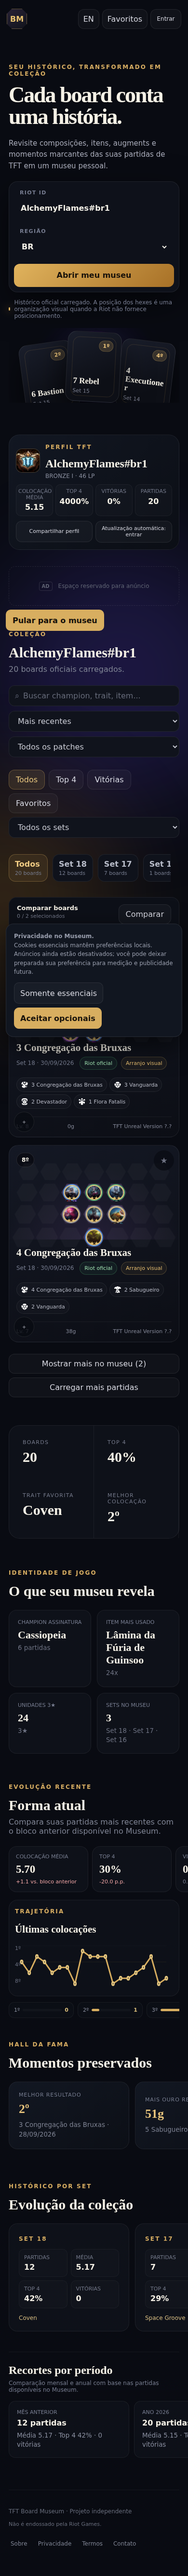
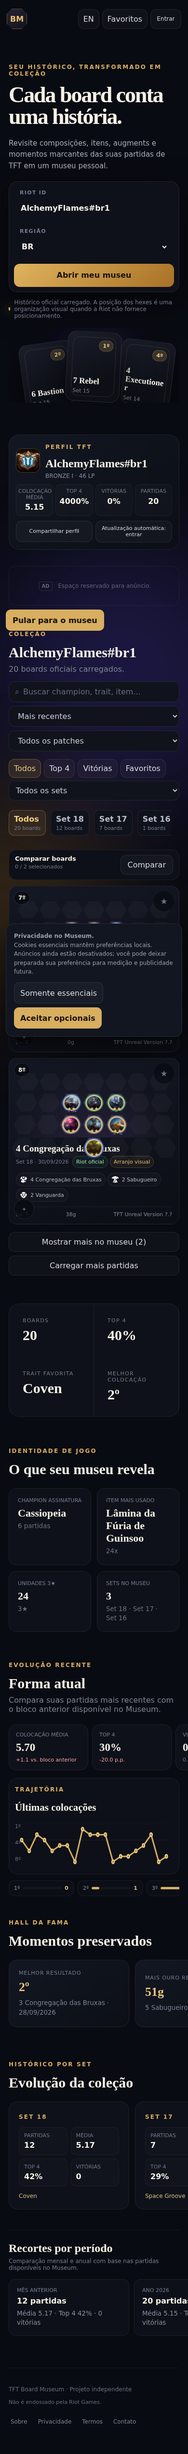
chore: update visual snapshots [skip ci]

diff --git a/screenshots/visual-audit.md b/screenshots/visual-audit.md
@@ -1,6 +1,6 @@
 # Visual audit
 
-Generated: 2026-10-06T17:01:09.004Z
+Generated: 2026-10-06T17:18:20.089Z
 
 ## desktop-full.png
 
@@ -34,11 +34,11 @@ Generated: 2026-10-06T17:01:09.004Z
 ## mobile-full.png
 
 - Viewport: 390×844
-- Page: 390×4939 (5.85 viewports tall)
+- Page: 390×4693 (5.56 viewports tall)
 - Boards rendered: 2
 - Overflow elements: 0
 - Horizontal scrollers: 4
-- Small tap targets: 0
+- Small tap targets: 4
 - Tiny text nodes (<11px): 1
 - Console errors: 0
 - Failed requests: 0
@@ -48,14 +48,20 @@ Generated: 2026-10-06T17:01:09.004Z
 - .hero: top 106px · 390×741px
 - #profilePanel: top 0px · 0×0px
 - .ad-slot: top 887px · 354×82px
-- #museum: top 1017px · 390×1526px
-- .stats: top 2543px · 354×235px
-- #insights: top 2838px · 390×315px
-- #recentEvolution: top 3211px · 390×490px
-- #hallOfFame: top 3745px · 390×236px
-- #setHistory: top 4039px · 390×663px
+- #museum: top 1017px · 390×1280px
+- .stats: top 2297px · 354×235px
+- #insights: top 2592px · 390×315px
+- #recentEvolution: top 2965px · 390×490px
+- #hallOfFame: top 3499px · 390×236px
+- #setHistory: top 3793px · 390×663px
 - #cloudCollections: top 0px · 0×0px
-- footer: top 4760px · 354×179px
+- footer: top 4514px · 354×179px
+
+### Small tap targets
+- button#.filter active: 67×39px
+- button#.filter: 64×39px
+- button#.filter: 82×39px
+- button#.filter: 94×39px
 
 ### Tiny text
 - 10px: AD
@@ -63,8 +69,8 @@ Generated: 2026-10-06T17:01:09.004Z
 ## alchemyflames-desktop-full.png
 
 - Viewport: 1440×1000
-- Page: 1440×5474 (5.47 viewports tall)
-- Boards rendered: 12
+- Page: 1440×4731 (4.73 viewports tall)
+- Boards rendered: 8
 - Overflow elements: 0
 - Horizontal scrollers: 0
 - Small tap targets: 0
@@ -74,17 +80,17 @@ Generated: 2026-10-06T17:01:09.004Z
 
 ### Sections
 - .topbar: top 0px · 1220×86px
-- .hero: top 114px · 1220×657px
-- #profilePanel: top 811px · 1164×132px
-- .ad-slot: top 977px · 1164×82px
-- #museum: top 1129px · 1220×2203px
-- .stats: top 3332px · 1164×112px
-- #insights: top 3529px · 1220×236px
-- #recentEvolution: top 3855px · 1220×503px
-- #hallOfFame: top 4448px · 1220×242px
-- #setHistory: top 4779px · 1220×481px
-- #cloudCollections: top 1129px · 0×0px
-- footer: top 5351px · 1440×123px
+- .hero: top 114px · 1220×643px
+- #profilePanel: top 797px · 1164×132px
+- .ad-slot: top 963px · 1164×82px
+- #museum: top 1115px · 1220×1399px
+- .stats: top 2514px · 1164×112px
+- #insights: top 2711px · 1220×210px
+- #recentEvolution: top 3011px · 1220×503px
+- #hallOfFame: top 3604px · 1220×223px
+- #setHistory: top 3917px · 1220×601px
+- #cloudCollections: top 1115px · 0×0px
+- footer: top 4608px · 1440×123px
 
 ### Tiny text
 - 10px: AD
@@ -92,11 +98,11 @@ Generated: 2026-10-06T17:01:09.004Z
 ## alchemyflames-mobile-full.png
 
 - Viewport: 390×844
-- Page: 390×5341 (6.33 viewports tall)
+- Page: 390×5089 (6.03 viewports tall)
 - Boards rendered: 2
 - Overflow elements: 0
 - Horizontal scrollers: 6
-- Small tap targets: 0
+- Small tap targets: 4
 - Tiny text nodes (<11px): 1
 - Console errors: 0
 - Failed requests: 0
@@ -106,14 +112,20 @@ Generated: 2026-10-06T17:01:09.004Z
 - .hero: top 106px · 390×755px
 - #profilePanel: top 901px · 354×240px
 - .ad-slot: top 1174px · 354×82px
-- #museum: top 1304px · 390×1651px
-- .stats: top 2955px · 354×235px
-- #insights: top 3250px · 390×386px
-- #recentEvolution: top 3694px · 390×490px
-- #hallOfFame: top 4228px · 390×236px
-- #setHistory: top 4522px · 390×582px
+- #museum: top 1304px · 390×1399px
+- .stats: top 2703px · 354×235px
+- #insights: top 2998px · 390×386px
+- #recentEvolution: top 3442px · 390×490px
+- #hallOfFame: top 3976px · 390×236px
+- #setHistory: top 4270px · 390×582px
 - #cloudCollections: top 1318px · 0×0px
-- footer: top 5162px · 354×179px
+- footer: top 4910px · 354×179px
+
+### Small tap targets
+- button#.filter active: 67×39px
+- button#.filter: 64×39px
+- button#.filter: 82×39px
+- button#.filter: 94×39px
 
 ### Tiny text
 - 10px: AD
